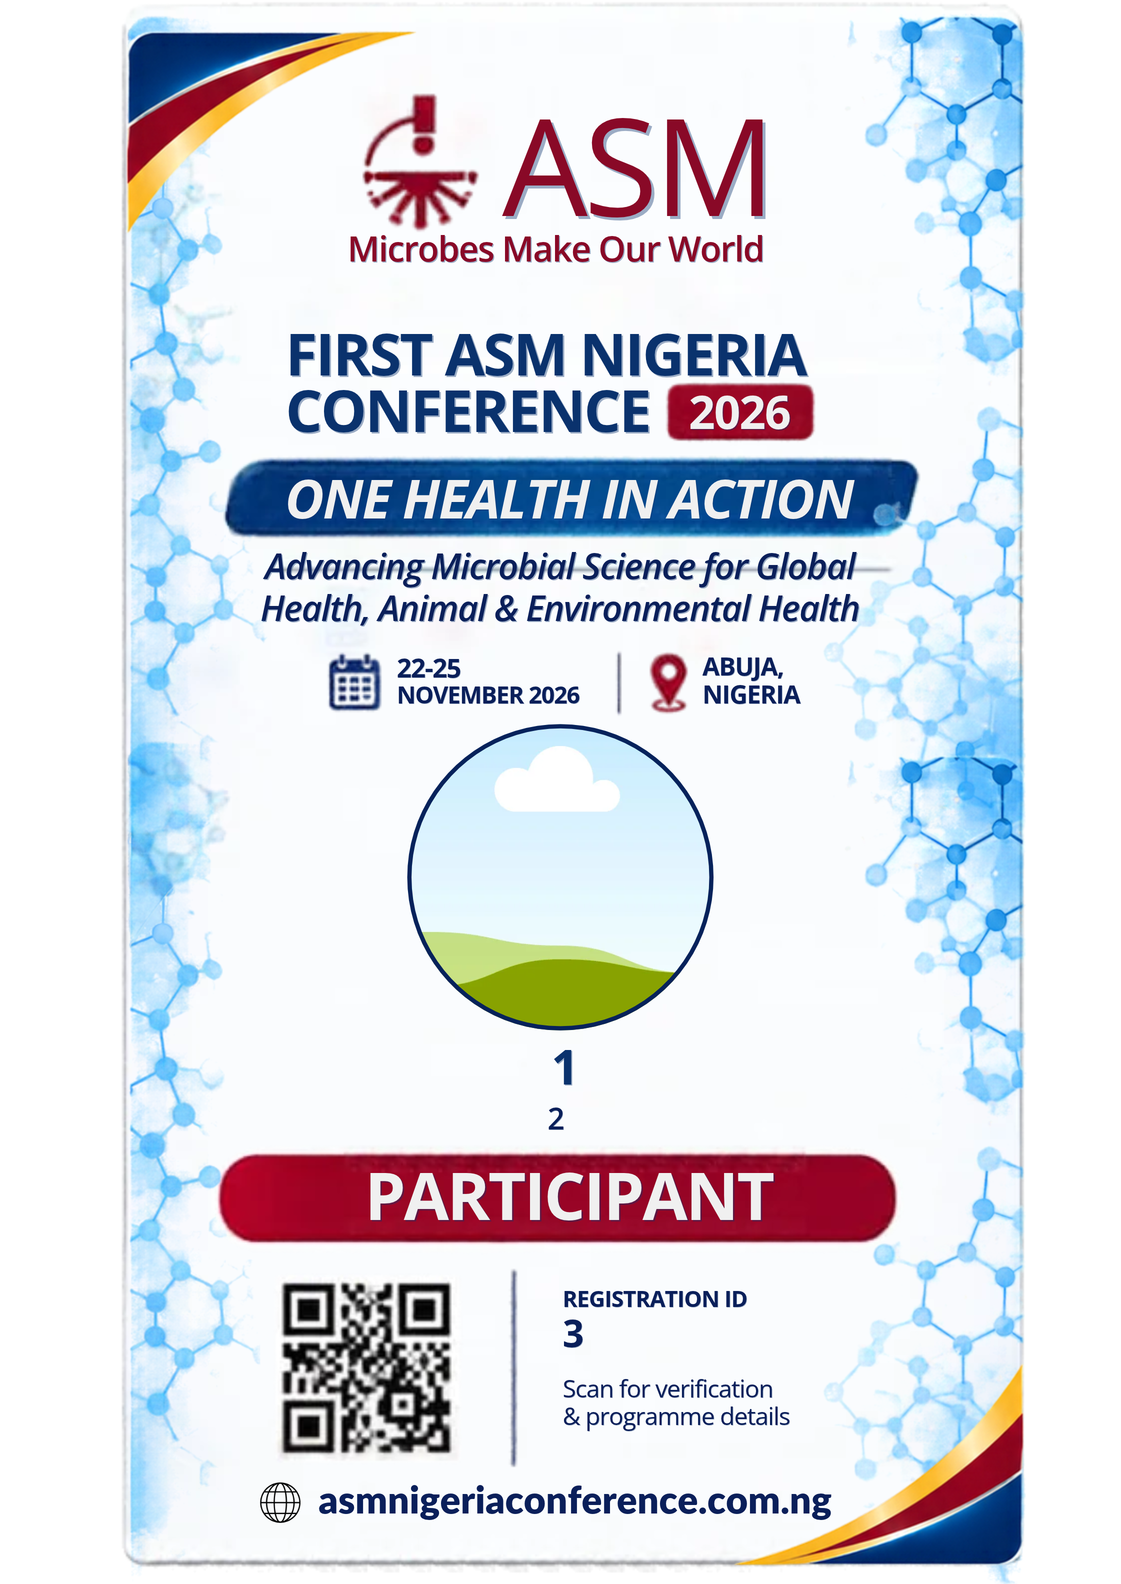
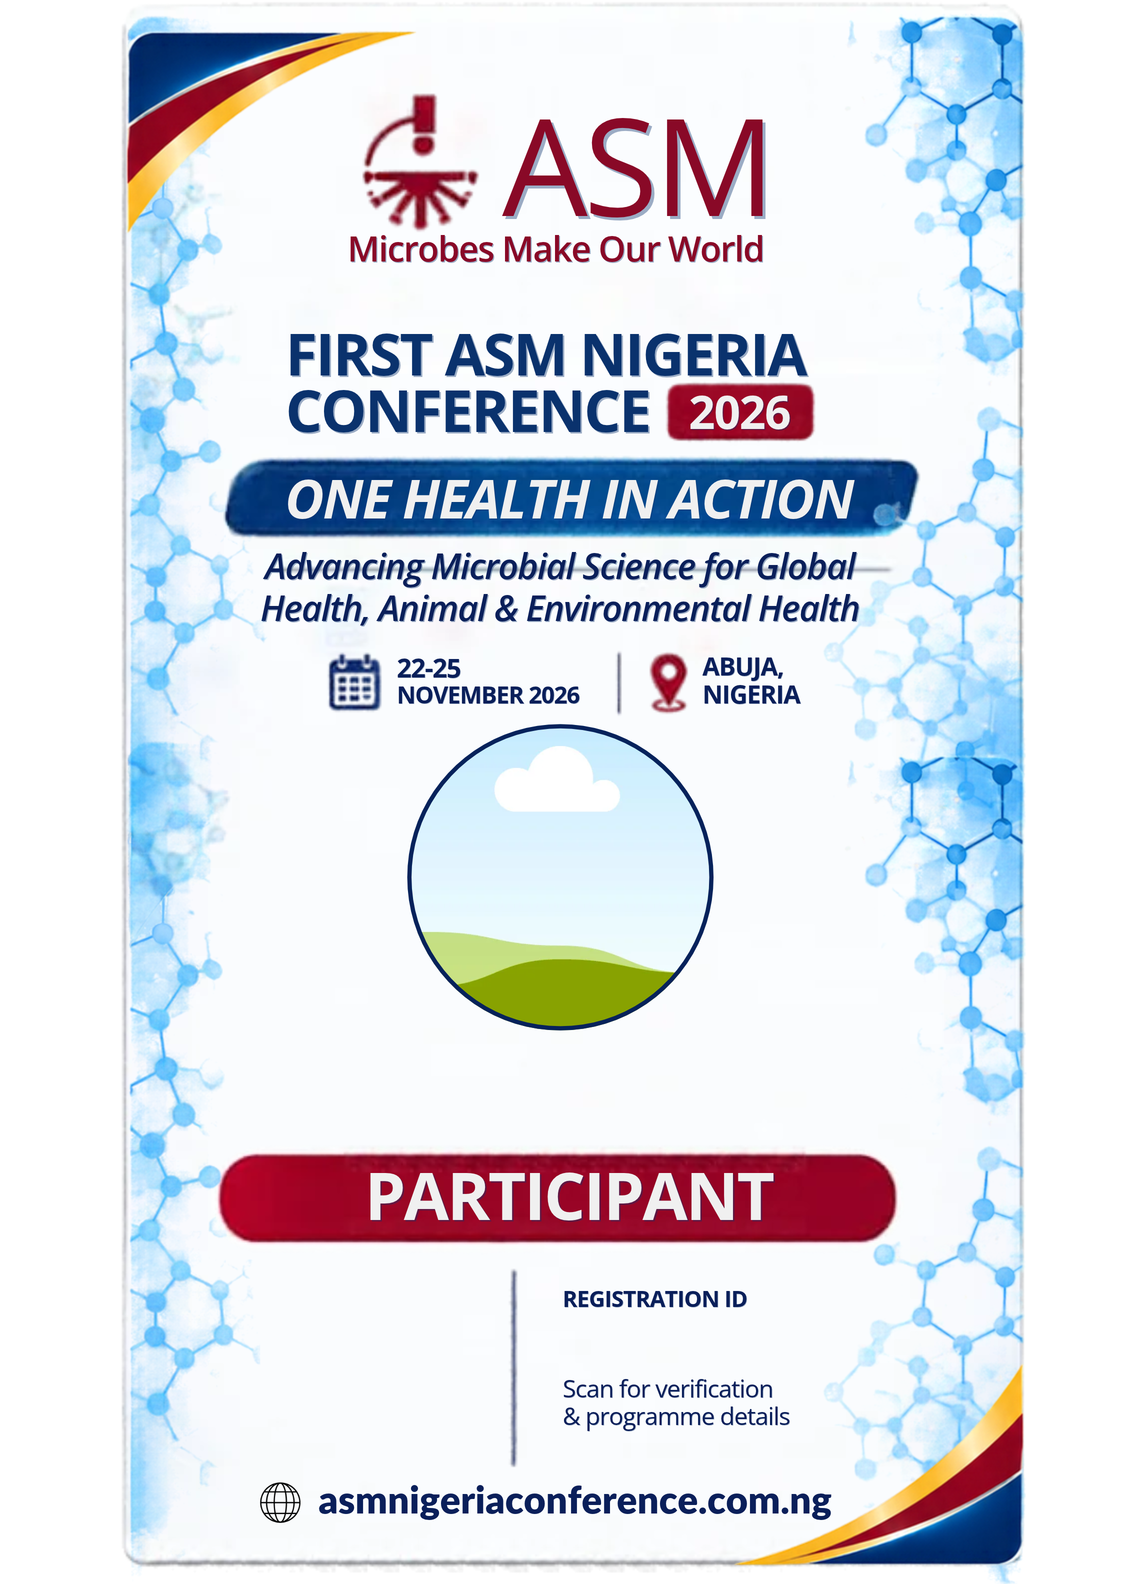
Switch to the cleaner badge template and improve print legibility
Replaces the template with the version that has no leftover
placeholder numbering or sample QR to work around -- name, affiliation,
registration ID and QR all land on genuinely blank space now instead
of needing to be painted over sample content.

- Name is now larger and bolder (readable across a table on a
  lanyard-worn badge, not just up close), with room for a two-line
  wrap on longer names
- QR generation bumped to the highest error-correction level and drawn
  larger on the badge -- a laminated, printed badge under hall
  lighting loses more scan margin than a code read off a screen

Changed region(s): [[0.2498, 0.8043, 0.4059, 0.928], [0.4996, 0.8352, 0.5308, 0.8662], [0.4996, 0.6496, 0.5308, 0.6806]]

diff --git a/components/admin/registration-badge.tsx b/components/admin/registration-badge.tsx
@@ -1,10 +1,10 @@
 // Overlays real registrant data onto the fixed badge artwork
 // (public/badges/template.png): the photo circle, name, affiliation and
-// registration ID are all plain white background on the template, so these
-// are drawn directly on top -- no separate "blank" template asset needed.
-// Positions are percentages of the badge's own box, which is locked to the
-// template image's exact aspect ratio (2242:3168), so they stay correctly
-// placed at any print or screen size.
+// registration ID all land on plain white background on the template, so
+// these are drawn directly on top -- no separate "blank" template asset
+// needed. Positions are percentages of the badge's own box, which is locked
+// to the template image's exact aspect ratio (2242:3168), so they stay
+// correctly placed at any print or screen size.
 export function RegistrationBadge({
   photoUrl,
   fullName,
@@ -46,23 +46,24 @@ export function RegistrationBadge({
         )}
       </div>
 
-      {/* Name */}
+      {/* Name -- deliberately large and bold: this has to be readable across
+          a table on a badge hanging from a lanyard, not just up close. */}
       <div
-        className="absolute flex items-center justify-center bg-white px-[2%] text-center font-bold text-[#1b2a5e]"
-        style={{ left: "15%", top: "63.8%", width: "70%", height: "4.2%", fontSize: "3.1%" }}
+        className="absolute flex items-center justify-center bg-white px-[2%] text-center leading-tight font-extrabold text-[#1b2a5e]"
+        style={{ left: "8%", top: "62.5%", width: "84%", height: "6.2%", fontSize: "4.6%" }}
       >
-        <span className="line-clamp-1">{fullName}</span>
+        <span className="line-clamp-2">{fullName}</span>
       </div>
 
       {/* Affiliation */}
       <div
         className="absolute flex items-center justify-center bg-white px-[2%] text-center text-[#1b2a5e]"
-        style={{ left: "10%", top: "68%", width: "80%", height: "3.6%", fontSize: "2.1%" }}
+        style={{ left: "10%", top: "69%", width: "80%", height: "3.2%", fontSize: "2.2%" }}
       >
         <span className="line-clamp-1">{affiliation || " "}</span>
       </div>
 
-      {/* Registration ID (short form, next to the static "REGISTRATION ID" label already in the artwork) */}
+      {/* Registration ID (next to the static "REGISTRATION ID" label already in the artwork) */}
       <div
         className="absolute flex items-center bg-white font-bold text-[#1b2a5e]"
         style={{ left: "50.5%", top: "84.3%", width: "20%", height: "4%", fontSize: "3%" }}
@@ -70,8 +71,11 @@ export function RegistrationBadge({
         {registrationId}
       </div>
 
-      {/* QR code -- fully opaque, so it naturally covers the sample QR graphic beneath it */}
-      <div className="absolute" style={{ left: "24.3%", top: "82%", width: "17%", aspectRatio: "1 / 1" }}>
+      {/* QR code -- sized up and generated at a high error-correction level
+          (see lib/registration-qr.ts) so it still scans reliably off a
+          printed badge: ink bleed, slight misalignment and lamination glare
+          all eat into a QR's readable margin. */}
+      <div className="absolute" style={{ left: "22%", top: "80.8%", width: "21%", aspectRatio: "1 / 1" }}>
         {/* eslint-disable-next-line @next/next/no-img-element */}
         <img src={qrDataUrl} alt="Check-in QR code" className="size-full object-contain" />
       </div>

diff --git a/lib/registration-qr.ts b/lib/registration-qr.ts
@@ -22,19 +22,17 @@ export function referenceNumberFromPayload(payload: string): string | null {
   return ref || null
 }
 
+// "H" (the highest level, ~30% of the code can be damaged/obscured and it
+// still decodes) rather than the default "M" -- a printed, laminated badge
+// scanned under event-hall lighting loses more contrast than a code read
+// straight off a screen, and the payload here is short enough that the
+// denser code this produces is still easy to scan.
+const PRINT_SAFE_OPTIONS = { errorCorrectionLevel: "H" as const, margin: 2, width: 400 }
+
 export async function generateQrPng(referenceNumber: string): Promise<Buffer> {
-  return QRCode.toBuffer(qrPayloadFor(referenceNumber), {
-    type: "png",
-    errorCorrectionLevel: "M",
-    margin: 2,
-    width: 400,
-  })
+  return QRCode.toBuffer(qrPayloadFor(referenceNumber), { type: "png", ...PRINT_SAFE_OPTIONS })
 }
 
 export async function generateQrDataUrl(referenceNumber: string): Promise<string> {
-  return QRCode.toDataURL(qrPayloadFor(referenceNumber), {
-    errorCorrectionLevel: "M",
-    margin: 2,
-    width: 400,
-  })
+  return QRCode.toDataURL(qrPayloadFor(referenceNumber), PRINT_SAFE_OPTIONS)
 }
